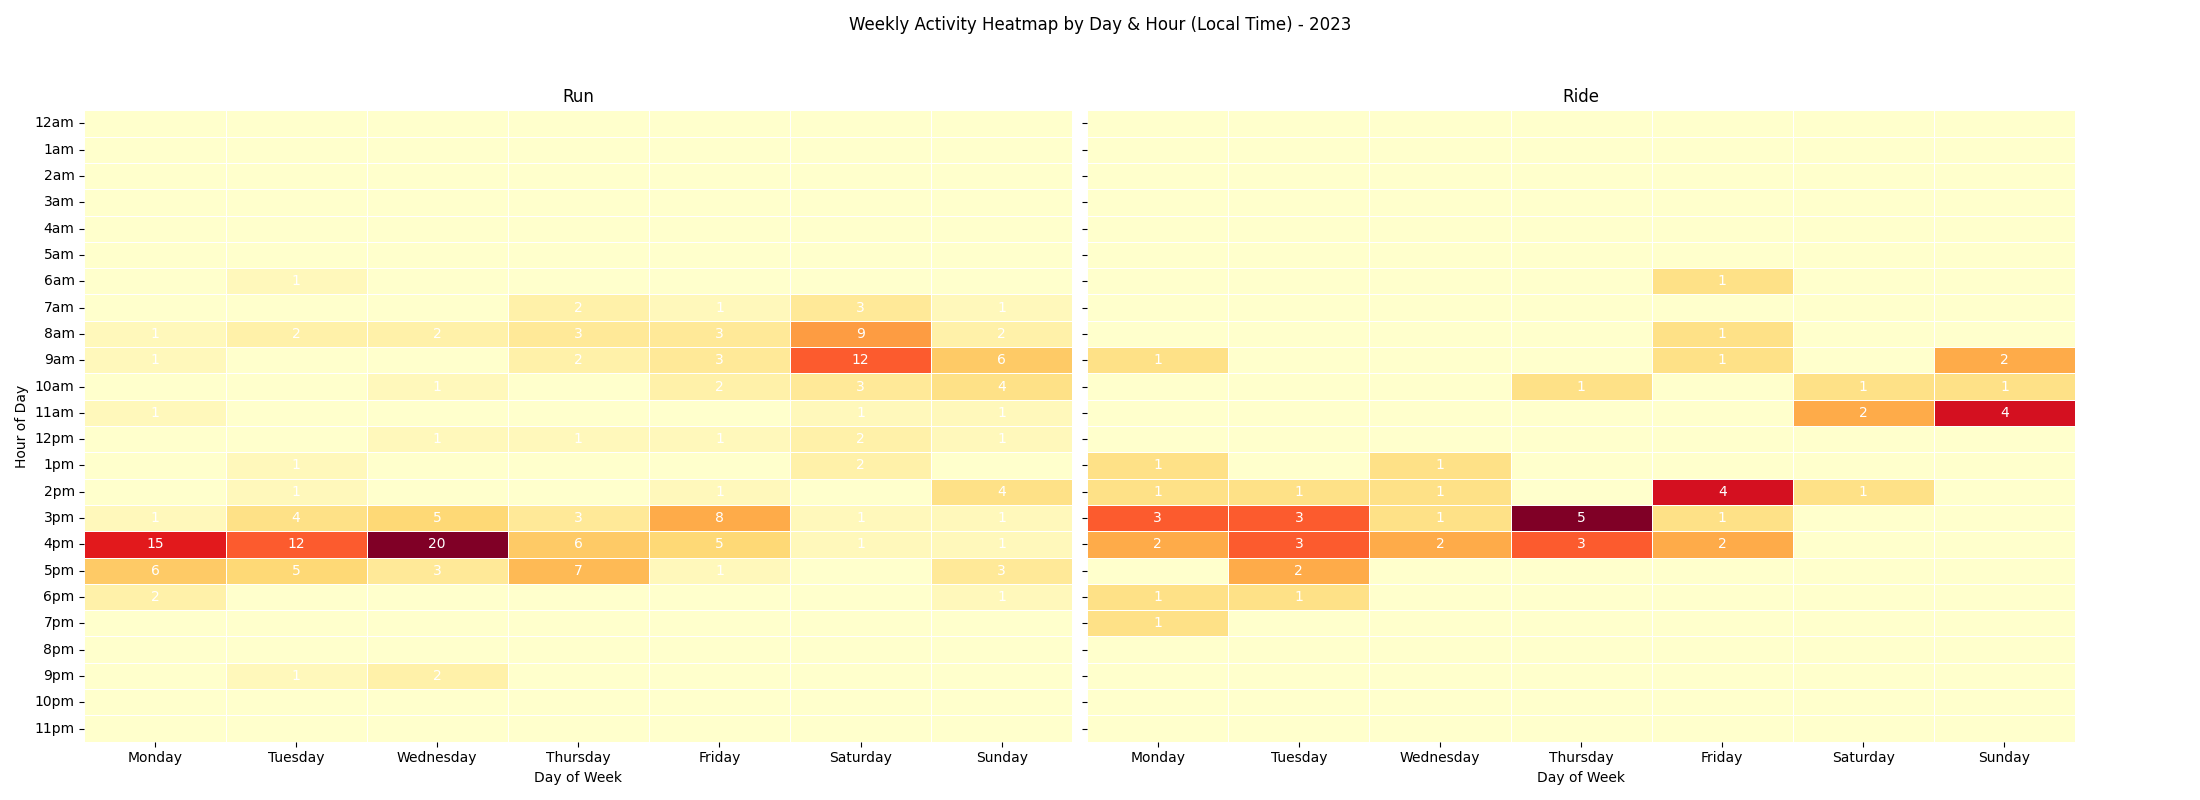
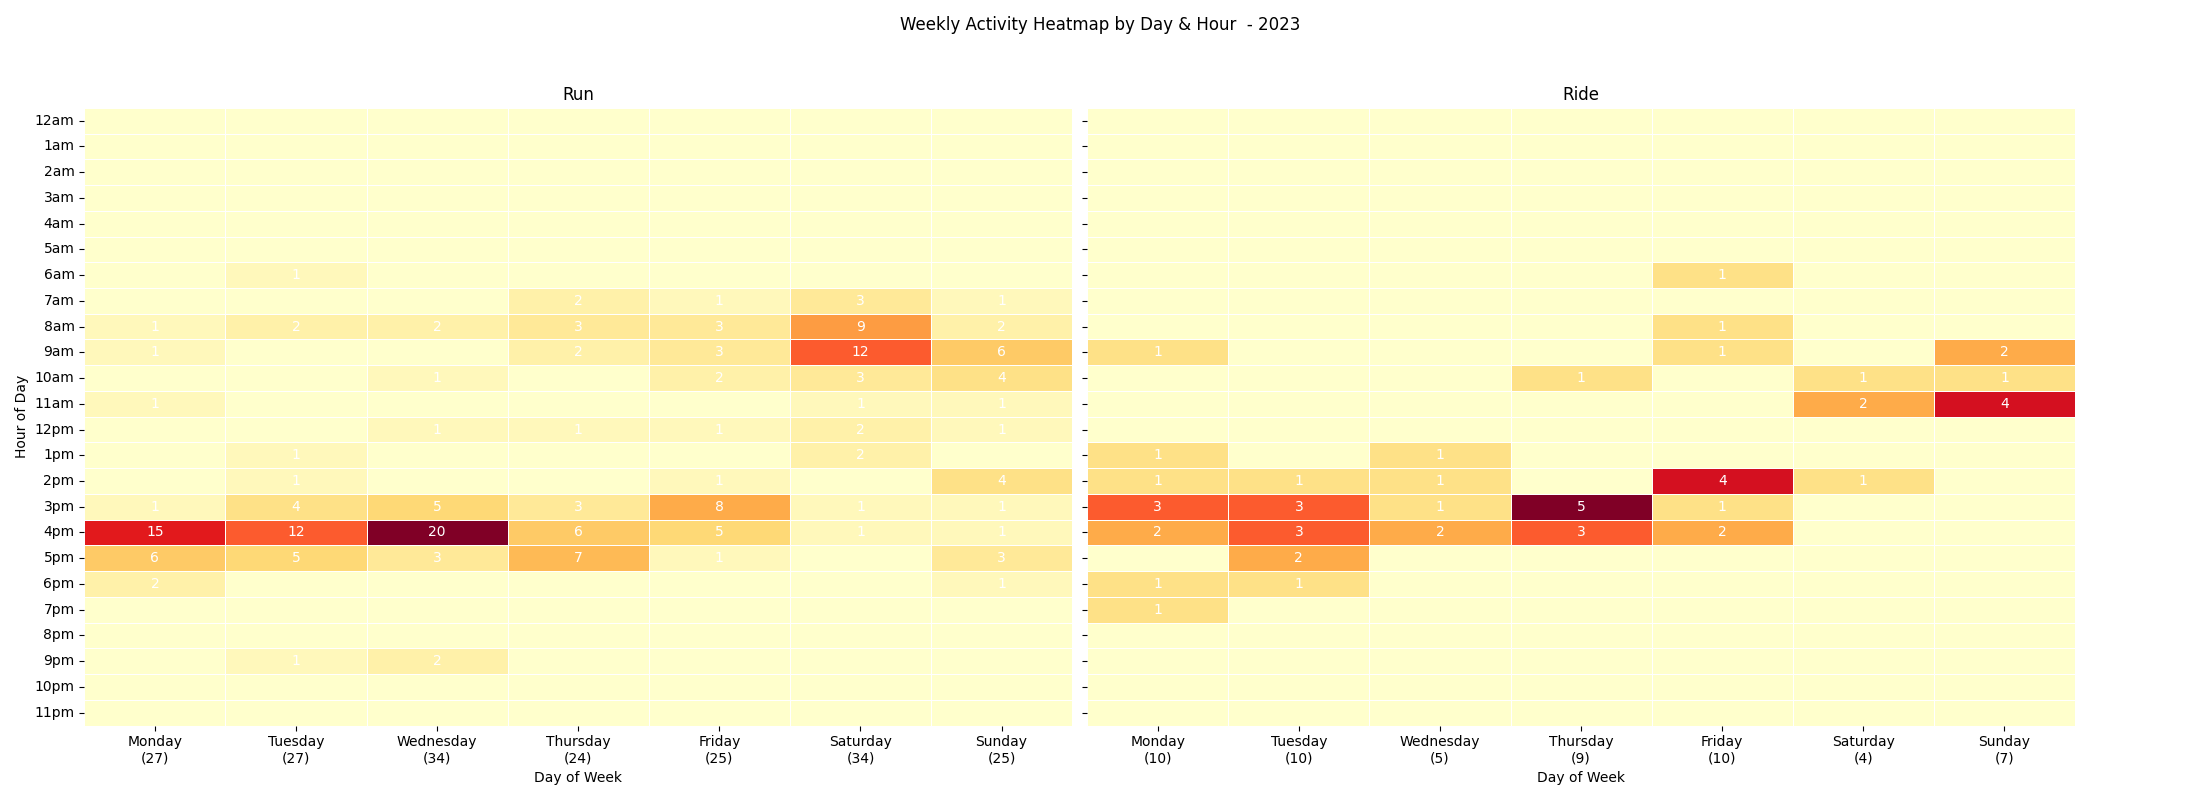
add summation

diff --git a/src/visualization.py b/src/visualization.py
@@ -178,6 +178,10 @@ class StravaVisualizer:
                 annot_data = annot_data.astype(str)
                 annot_data[heatmap_data == 0] = ''
 
+                # Calculate totals for each day and create labels with counts
+                day_totals = heatmap_data.sum(axis=0)
+                day_labels_with_counts = [f"{day}\n({int(day_totals[day])})" for day in days]
+
                 sns.heatmap(
                     heatmap_data,
                     cmap='YlOrRd',
@@ -185,6 +189,7 @@ class StravaVisualizer:
                     cbar=False,  # We'll add a shared colour bar later
                     linewidths=.5,
                     yticklabels=hour_labels,
+                    xticklabels=day_labels_with_counts,
                     annot=annot_data,
                     fmt='',
                     annot_kws={'color': '#ffffff', 'fontsize': 10},
@@ -199,7 +204,7 @@ class StravaVisualizer:
                 # Rotate tick labels for readability (already horizontal)
                 ax.tick_params(axis='y', labelrotation=0)
 
-            fig.suptitle(f'Weekly Activity Heatmap by Day & Hour (Local Time){title_suffix}')
+            fig.suptitle(f'Weekly Activity Heatmap by Day & Hour {title_suffix}')
             plt.tight_layout(rect=[0, 0, 0.95, 0.95])
 
             plt.savefig(f'output/{filename}')
